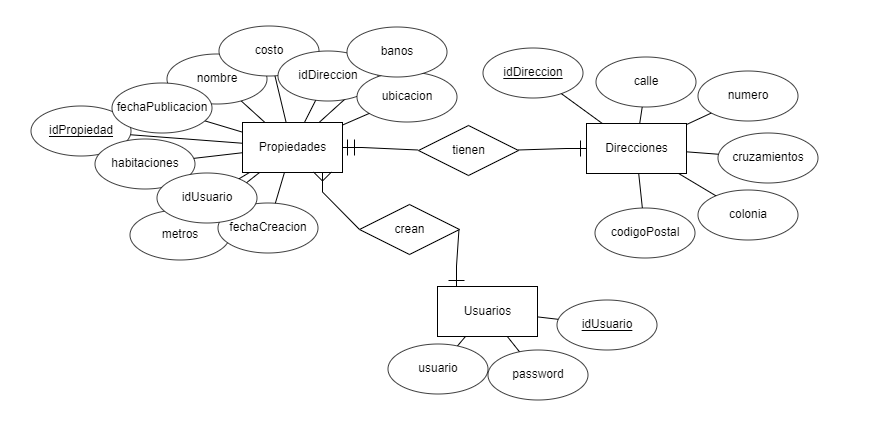
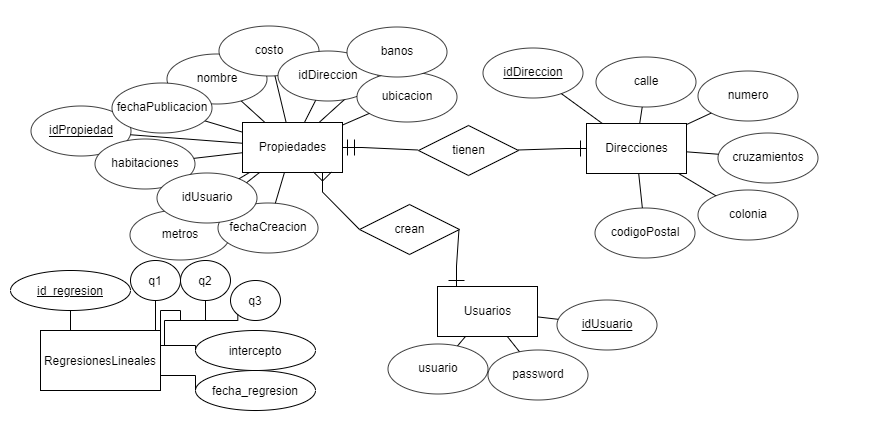
cambios documentacion

diff --git a/DocumentoDeArquitectura.md b/DocumentoDeArquitectura.md
@@ -53,12 +53,17 @@ Contiene todos los datos de las casas en venta registradas en el sistema. Esta t
 <a name="api"></a>
 ## Documentación de la API
 ### Endpoints
-* [Listar propiedades](#listarPropiedades) : `GET /api/propiedades?{parametros_opcionales}`
+* [Listar propiedades](#listarPropiedades) : `GET /api/propiedades/{page}`
+* [Listar propiedades con filtro](#listarPropiedades) : `POST /api/propiedades/{page}`
 * [Listar propiedad especifica](#listarEspecifica) : `GET /api/propiedades/{id}`
 * [Crear propiedad](#crearPropiedad) : `POST /api/propiedades/`
-* [Crear propiedades desde csv](#crearCSV) : `POST /api/propiedades/csv`
+* [Crear propiedades desde csv](#crearCSV) : `POST /api/propiedades/carga_masiva`
 * [Actualizar propiedad](#actualizarPropiedad) : `PUT /api/propiedades/{id}`
 * [Eliminar propiedad](#eliminarPropiedad) : `DELETE /api/propiedades/{id}`
+* Grafica de Precios por Ubicacion : `GET /api/graficas/ubicacion/precio`
+* Grafica de cantidad de Propiedades por Ubicacion : `GET /api/graficas/ubicacion/casas`
+* Grafica de Precios por Metros Cuadrados : `GET /api/graficas/metros/precio`
+* [Predicción de Precio de propiedad](#prediccion) : `POST /api/prediccionCostoPropiedad`
 
 #### <a name="listarPropiedades"></a> Listar propiedades
 * URI :
@@ -174,16 +179,16 @@ Contiene todos los datos de las casas en venta registradas en el sistema. Esta t
 
 #### <a name="listarPaginadas"></a> Listar propiedades paginadas
 * URI :
-  * `GET /api/propiedades/{offsetValue}/{cantidad}`
+  * `GET /api/propiedades/{page}`
 * Descripción:
   * Se utiliza para solicitar una búsqueda con la capacidad de paginar las listarPropiedades
   en conjunto con la información de estas registradas en el sistema.
-* Ejemplo de request: `GET /api/propiedades/5/20`
-  * Descripción: La respuesta son un total de 20 propiedades comenzando desde la propiedad con el id 5, por lo que se devolverá el listado de las propiedades de la 5 a la 25.
+* Ejemplo de request: `GET /api/propiedades/1`
+  * Descripción: La respuesta son un total de 5 propiedades comenzando desde la propiedad con el id 6, por lo que se devolverá el listado de las propiedades de la 6 a la 10.
   * Respuesta (200OK):
 ```json    
     {
-      "5": {
+      "6": {
         "costo" : 1000000.00,
         "ubicacion" : "Oriente",
         "direccion" : {
@@ -203,7 +208,7 @@ Contiene todos los datos de las casas en venta registradas en el sistema. Esta t
 
       ...      
 
-      "25": {
+      "10": {
         "costo" : 3500140.00,
         "ubicacion" : "Norte",
         "direccion" : {
@@ -316,7 +321,7 @@ Contiene todos los datos de las casas en venta registradas en el sistema. Esta t
 
 #### <a name="crearCSV"></a> Crear propiedades desde CSV
 * URI :
-  * `POST /api/propiedades/csv`
+  * `POST /api/propiedades/carga_masiva`
 * Descripción:
   * Se utiliza para realizar el registro de propiedades dentro del sistema por medio de un archivo csv.
 * Campos requeridos en cada entrada del csv:
@@ -424,6 +429,11 @@ Contiene todos los datos de las casas en venta registradas en el sistema. Esta t
       }
     }
 ```
+  * Ejemplo de CSV
+  ```CSV
+  CASA 3 habitaciones en el norte,1000000,4,NORTE,14,12,5 y 5a,tepito,97130,3,200
+CASA 2 habitaciones en el norte,800000,3,NORTE,11,15,12 y 13,fco de montejo,97000,2,150
+  ```
 
 #### <a name="actualizarPropiedad"></a> Actualizar propiedad
 * URI :
@@ -536,6 +546,26 @@ Contiene todos los datos de las casas en venta registradas en el sistema. Esta t
     "respuesta": "La propiedad 1 ha sido eliminada"
   }
 ```  
+
+#### <a name="prediccion"></a> Predicción de precio de propiedad
+* URI :
+  * `POST /api/prediccionCostoPropiedad`
+* Descripción:
+  * Se utiliza para obtener una predicción del costo de una propiedad en base a sus habitaciones, cantidad de baños y metros cuadrados de la propiedad. Utilizando un script de R con una formula de regresión lineal.
+* Respuesta (200OK):    
+```json    
+  {
+    "respuesta": "El precio de la propiedad es de {precio}"
+  }
+```       
+* Ejemplo de request: `POST /api/prediccionCostoPropiedad`
+```json
+    {
+      "habitaciones": 4,
+      "banos": 2,
+      "metros_cuadrados": 100
+    }
+```
 
 <a name="calidad"></a>
 ## Criterios de Calidad de la API
